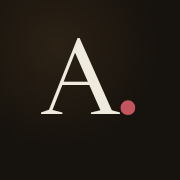
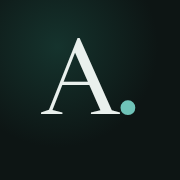
Patina: an alternative system — copper and its oxidation
A palette-layer alternative to Bureau, for side-by-side comparison. Dusty
verdigris (the turquoise of aged copper — never tech cyan) over fog porcelain
and deep sea-slate ink, with warm copper as the rare metal: 'hired.' and the
tariff seal are copper, the fresh strike before it ages. The orb keeps its
form and voice-reactivity; its light cools to a glacier heart with a copper
edge. Icons, OG card, voice room, manifest, and theme colors follow.

Everything structural — chapters, tariff, index, typography, accent
scarcity — is inherited unchanged from the Bureau branch.

Claude-Session: https://claude.ai/code/session_01F68aTFXm5ckyMZCk7hp9uQ

Changed region(s): [[0.6667, 0.5556, 0.75, 0.6389]]

diff --git a/frontend/src/app/app/voice/page.tsx b/frontend/src/app/app/voice/page.tsx
@@ -145,9 +145,9 @@ function VoiceCall() {
           <p className="text-center text-xs text-muted">Uses your microphone.</p>
         </Card>
       ) : (
-        <div className="relative overflow-hidden rounded-card border border-[#2b2925] bg-[#1d0e0f] text-[#f2f0ea] shadow-lift">
+        <div className="relative overflow-hidden rounded-card border border-[#2b2925] bg-[#0a1513] text-[#f2f0ea] shadow-lift">
           <div
-            className="pointer-events-none absolute left-1/2 top-8 size-80 -translate-x-1/2 rounded-full bg-[#c2555e]/15 blur-3xl"
+            className="pointer-events-none absolute left-1/2 top-8 size-80 -translate-x-1/2 rounded-full bg-[#6fc3b8]/15 blur-3xl"
             aria-hidden
           />
           <div className="relative flex flex-col items-center px-7 pb-7 pt-10 text-center">
@@ -175,7 +175,7 @@ function VoiceCall() {
                 ["0s", "0.6s", "1.2s"].map((delay) => (
                   <span
                     key={delay}
-                    className="ring-ping absolute inset-0 rounded-full border-[1.5px] border-[#c2555e]/45"
+                    className="ring-ping absolute inset-0 rounded-full border-[1.5px] border-[#6fc3b8]/45"
                     style={{ animationDelay: delay }}
                     aria-hidden
                   />
@@ -183,8 +183,8 @@ function VoiceCall() {
               <div
                 className={`absolute inset-2.5 flex items-center justify-center rounded-full ${
                   state === "live"
-                    ? "bg-[#c2555e] text-[#1d0e0f] shadow-[0_0_60px_rgba(194,85,94,0.4)]"
-                    : "pulse-soft bg-[#38201f] text-[#c2555e]"
+                    ? "bg-[#6fc3b8] text-[#0a1513] shadow-[0_0_60px_rgba(111,195,184,0.4)]"
+                    : "pulse-soft bg-[#16332f] text-[#6fc3b8]"
                 }`}
               >
                 {state === "connecting" ? (
@@ -199,7 +199,7 @@ function VoiceCall() {
                 {[8, 16, 22, 12, 18, 7, 14].map((h, i) => (
                   <span
                     key={i}
-                    className="eq-bar w-[3px] rounded-full bg-[#c2555e]"
+                    className="eq-bar w-[3px] rounded-full bg-[#6fc3b8]"
                     style={{ height: h, animationDelay: `${i * 0.13}s` }}
                   />
                 ))}
@@ -214,7 +214,7 @@ function VoiceCall() {
               <button
                 onClick={end}
                 disabled={state === "ending"}
-                className="flex items-center justify-center gap-2 rounded-full bg-[#c2555e] px-8 py-3 text-sm font-medium text-[#1d0e0f] shadow-[0_4px_14px_rgba(194,85,94,0.25)] transition-opacity hover:opacity-90 disabled:opacity-50"
+                className="flex items-center justify-center gap-2 rounded-full bg-[#6fc3b8] px-8 py-3 text-sm font-medium text-[#0a1513] shadow-[0_4px_14px_rgba(111,195,184,0.25)] transition-opacity hover:opacity-90 disabled:opacity-50"
               >
                 <PhoneOff className="size-4" /> End call
               </button>

diff --git a/frontend/src/app/globals.css b/frontend/src/app/globals.css
@@ -1,23 +1,22 @@
 @import "tailwindcss";
 
-/* Design tokens — the "Bureau" system. Ada's material world is stationery:
-   the CV is paper, the offer is signed in ink, the deal is sealed in wax.
-   Bone paper + espresso ink, one rare accent (sealing-wax oxblood), bronze
-   permitted only as hairline metal. No tech blue, no success green, no
-   luxury gold. Dark mode is the same study after dark; .noir applies the
+/* Design tokens — the "Patina" system. Copper and its oxidation: fog
+   porcelain + deep sea-slate ink, one dusty verdigris accent (the turquoise
+   of aged copper — never tech cyan), warm copper as the rare metal for the
+   hired moment. Dark mode is the same room after dark; .noir applies the
    dark set to a subtree (the marketing site is noir-fixed). */
 :root {
-  --bg: #f3f1ec;
-  --surface: #fcfbf8;
-  --surface-2: #eae7df;
-  --ink: #191510;
-  --muted: #6d665c;
-  --line: #e0dcd2;
-  --accent: #7d2b35;
-  --accent-ink: #fcfbf8;
-  --accent-soft: #f3e4e2;
-  --gold: #8a6f43;
-  --gold-soft: #efe8d9;
+  --bg: #f1f4f2;
+  --surface: #fbfcfb;
+  --surface-2: #e6ebe8;
+  --ink: #101b1a;
+  --muted: #5e6f6c;
+  --line: #dbe3e0;
+  --accent: #2a746e;
+  --accent-ink: #fbfcfb;
+  --accent-soft: #ddefec;
+  --gold: #9c6b4b;
+  --gold-soft: #f2e6dd;
   --success: #47623c;
   --success-soft: #e7ecdf;
   --warn: #92600a;
@@ -27,23 +26,23 @@
   --radius: 14px;
   --shadow-card: 0 1px 2px rgba(25, 21, 16, 0.04), 0 4px 16px rgba(25, 21, 16, 0.04);
   --shadow-lift: 0 2px 4px rgba(25, 21, 16, 0.05), 0 16px 40px rgba(25, 21, 16, 0.1);
-  --shadow-btn: 0 1px 2px rgba(25, 21, 16, 0.16), 0 4px 12px rgba(125, 43, 53, 0.22);
-  --glow: rgba(125, 43, 53, 0.06);
+  --shadow-btn: 0 1px 2px rgba(16, 27, 26, 0.16), 0 4px 12px rgba(42, 116, 110, 0.22);
+  --glow: rgba(42, 116, 110, 0.06);
 }
 
 .dark,
 .noir {
-  --bg: #16120d;
-  --surface: #1e1913;
-  --surface-2: #251f18;
-  --ink: #efeade;
-  --muted: #a1988a;
-  --line: #322b22;
-  --accent: #c2555e;
-  --accent-ink: #1d0e0f;
-  --accent-soft: #38201f;
-  --gold: #c9a36a;
-  --gold-soft: #2d251a;
+  --bg: #0d1514;
+  --surface: #131d1b;
+  --surface-2: #182420;
+  --ink: #e9f0ed;
+  --muted: #8fa39e;
+  --line: #243230;
+  --accent: #6fc3b8;
+  --accent-ink: #0a1513;
+  --accent-soft: #16332f;
+  --gold: #c98d68;
+  --gold-soft: #2b2019;
   --success: #94ad84;
   --success-soft: #232b1e;
   --warn: #fbbf24;
@@ -52,8 +51,8 @@
   --danger-soft: #2e1715;
   --shadow-card: 0 1px 2px rgba(0, 0, 0, 0.3), 0 4px 16px rgba(0, 0, 0, 0.25);
   --shadow-lift: 0 2px 4px rgba(0, 0, 0, 0.35), 0 16px 40px rgba(0, 0, 0, 0.45);
-  --shadow-btn: 0 1px 2px rgba(0, 0, 0, 0.4), 0 4px 14px rgba(194, 85, 94, 0.2);
-  --glow: rgba(201, 163, 106, 0.07);
+  --shadow-btn: 0 1px 2px rgba(0, 0, 0, 0.4), 0 4px 14px rgba(111, 195, 184, 0.18);
+  --glow: rgba(201, 141, 104, 0.06);
 }
 .noir {
   color-scheme: dark;

diff --git a/frontend/src/components/marketing/orb.tsx b/frontend/src/components/marketing/orb.tsx
@@ -18,11 +18,11 @@ const HARMONICS = [
   { lobes: 8, speed: 1.42, phase: 4.1, amp: 0.005 },
 ];
 
-// The light inside: an ember — warm white heart, amber body, a wax-red edge.
+// The light inside: patina — a sky-white heart, dusty turquoise, a copper edge.
 const LOBES = [
-  { color: "244, 226, 198", r: 0.62, ox: -0.24, oy: -0.28, speed: 0.21, alpha: 0.8 },
-  { color: "216, 160, 88", r: 0.85, ox: 0.3, oy: 0.14, speed: -0.16, alpha: 0.6 },
-  { color: "190, 84, 88", r: 0.62, ox: -0.04, oy: 0.38, speed: 0.11, alpha: 0.48 },
+  { color: "226, 242, 238", r: 0.6, ox: -0.24, oy: -0.28, speed: 0.21, alpha: 0.75 },
+  { color: "111, 195, 184", r: 0.85, ox: 0.3, oy: 0.14, speed: -0.16, alpha: 0.6 },
+  { color: "201, 141, 104", r: 0.6, ox: -0.04, oy: 0.38, speed: 0.11, alpha: 0.45 },
 ];
 
 function fmt(seconds: number): string {
@@ -144,9 +144,9 @@ export function HeroOrb() {
       // Ambient glow around the body — light escaping into the dark.
       const haloR = Math.min(R * 1.7, Math.min(w, h) * 0.495);
       const halo = ctx.createRadialGradient(cx, cy, R * 0.55, cx, cy, haloR);
-      halo.addColorStop(0, `rgba(216, 160, 88, ${0.18 + level * 0.14})`);
-      halo.addColorStop(0.6, `rgba(190, 84, 88, ${0.06 + level * 0.06})`);
-      halo.addColorStop(1, "rgba(190, 84, 88, 0)");
+      halo.addColorStop(0, `rgba(111, 195, 184, ${0.16 + level * 0.14})`);
+      halo.addColorStop(0.6, `rgba(201, 141, 104, ${0.06 + level * 0.06})`);
+      halo.addColorStop(1, "rgba(201, 141, 104, 0)");
       ctx.fillStyle = halo;
       ctx.beginPath();
       ctx.arc(cx, cy, haloR, 0, Math.PI * 2);
@@ -155,8 +155,8 @@ export function HeroOrb() {
       // The body: near-black glass.
       blobPath(cx, cy, R, energy);
       const base = ctx.createRadialGradient(cx, cy - R * 0.2, R * 0.2, cx, cy, R * 1.05);
-      base.addColorStop(0, "#2b2115");
-      base.addColorStop(1, "#120d08");
+      base.addColorStop(0, "#15332d");
+      base.addColorStop(1, "#081210");
       ctx.fillStyle = base;
       ctx.fill();
 
@@ -182,7 +182,7 @@ export function HeroOrb() {
 
       // A hairline rim so the glass has an edge against the dark.
       blobPath(cx, cy, R, energy);
-      ctx.strokeStyle = `rgba(239, 234, 222, ${0.16 + level * 0.12})`;
+      ctx.strokeStyle = `rgba(233, 240, 237, ${0.16 + level * 0.12})`;
       ctx.lineWidth = 1;
       ctx.stroke();
 

diff --git a/frontend/src/app/page.tsx b/frontend/src/app/page.tsx
@@ -243,7 +243,7 @@ export default function Landing() {
                       <dt className="display text-xl sm:text-2xl">
                         {row.item}
                         {row.seal && (
-                          <span className="ml-2 inline-block size-2 rounded-full bg-accent align-middle" aria-hidden />
+                          <span className="ml-2 inline-block size-2 rounded-full bg-gold align-middle" aria-hidden />
                         )}
                       </dt>
                       <span className="mx-1 flex-1 border-b border-dotted border-line" aria-hidden />

diff --git a/frontend/src/components/marketing/demo.tsx b/frontend/src/components/marketing/demo.tsx
@@ -91,7 +91,7 @@ export function HeroHeadline() {
       <span className="hidden lg:inline-block lg:w-[1.1em]" aria-hidden />
       {lines[1].map(word)}
       <motion.em
-        className="relative inline-block text-accent"
+        className="relative inline-block text-gold"
         initial={{ opacity: 0, y: 20, filter: "blur(10px)" }}
         animate={{ opacity: 1, y: 0, filter: "blur(0px)" }}
         transition={{ duration: 0.6, delay: 0.15 + 5 * 0.08, ease: EASE }}

diff --git a/frontend/src/app/manifest.ts b/frontend/src/app/manifest.ts
@@ -11,8 +11,8 @@ export default function manifest(): MetadataRoute.Manifest {
     start_url: "/app",
     scope: "/",
     display: "standalone",
-    background_color: "#f3f1ec",
-    theme_color: "#f3f1ec",
+    background_color: "#f1f4f2",
+    theme_color: "#f1f4f2",
     icons: [
       { src: "/icon-192.png", sizes: "192x192", type: "image/png", purpose: "any" },
       { src: "/icon-512.png", sizes: "512x512", type: "image/png", purpose: "any" },

diff --git a/frontend/src/app/opengraph-image.tsx b/frontend/src/app/opengraph-image.tsx
@@ -7,10 +7,10 @@ export const alt = "Ada — the career agent that gets you hired";
 export const size = { width: 1200, height: 630 };
 export const contentType = "image/png";
 
-const INK = "#16120d";
-const PAPER = "#efeade";
-const MUTED = "#a1988a";
-const ACCENT = "#c2555e";
+const INK = "#0d1514";
+const PAPER = "#e9f0ed";
+const MUTED = "#8fa39e";
+const ACCENT = "#c98d68";
 
 export default function OpengraphImage() {
   return new ImageResponse(

diff --git a/frontend/src/app/layout.tsx b/frontend/src/app/layout.tsx
@@ -35,8 +35,8 @@ export const viewport: Viewport = {
   // fixed CTAs pad themselves with env(safe-area-inset-bottom).
   viewportFit: "cover",
   themeColor: [
-    { media: "(prefers-color-scheme: light)", color: "#f3f1ec" },
-    { media: "(prefers-color-scheme: dark)", color: "#16120d" },
+    { media: "(prefers-color-scheme: light)", color: "#f1f4f2" },
+    { media: "(prefers-color-scheme: dark)", color: "#0d1514" },
   ],
 };
 
